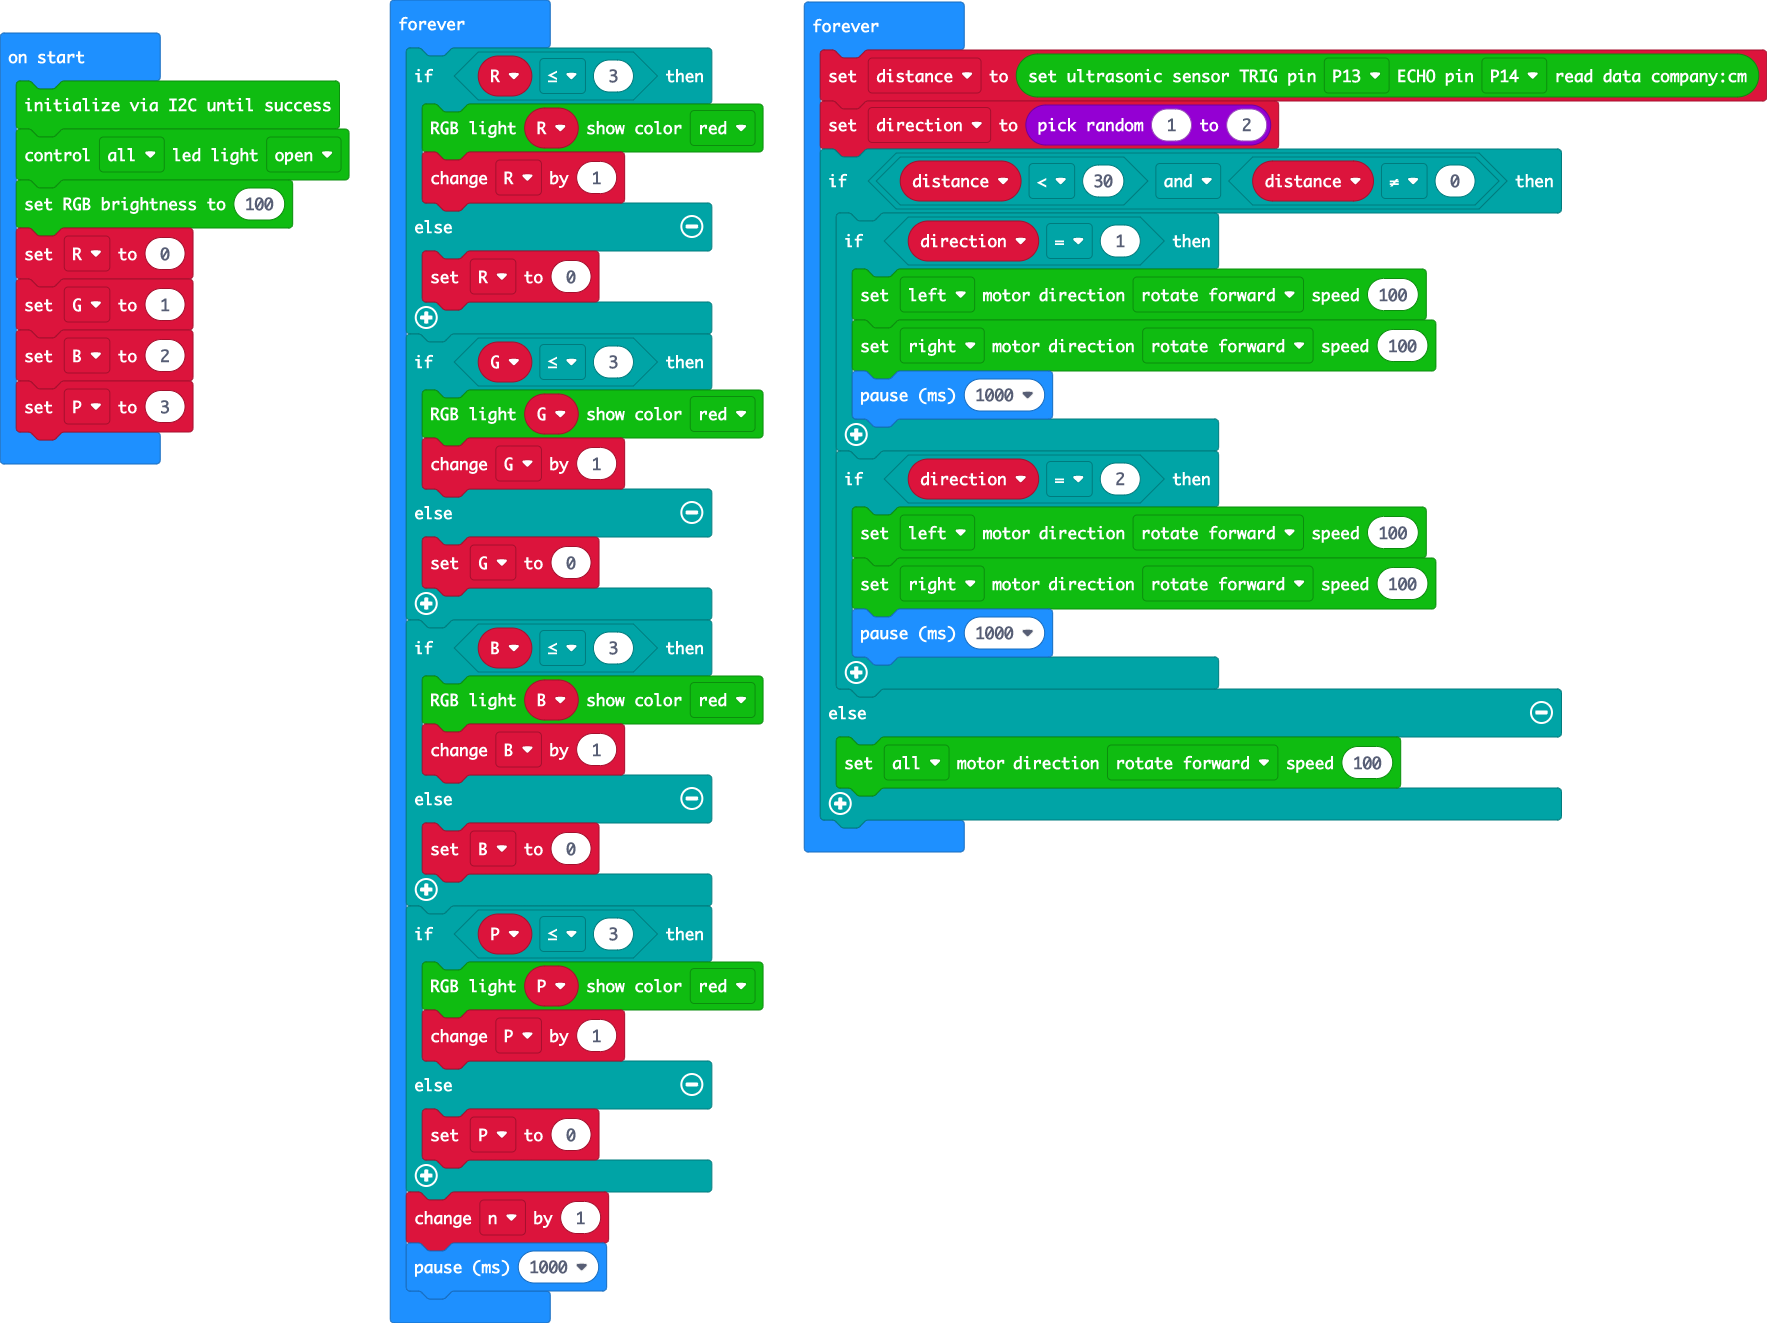
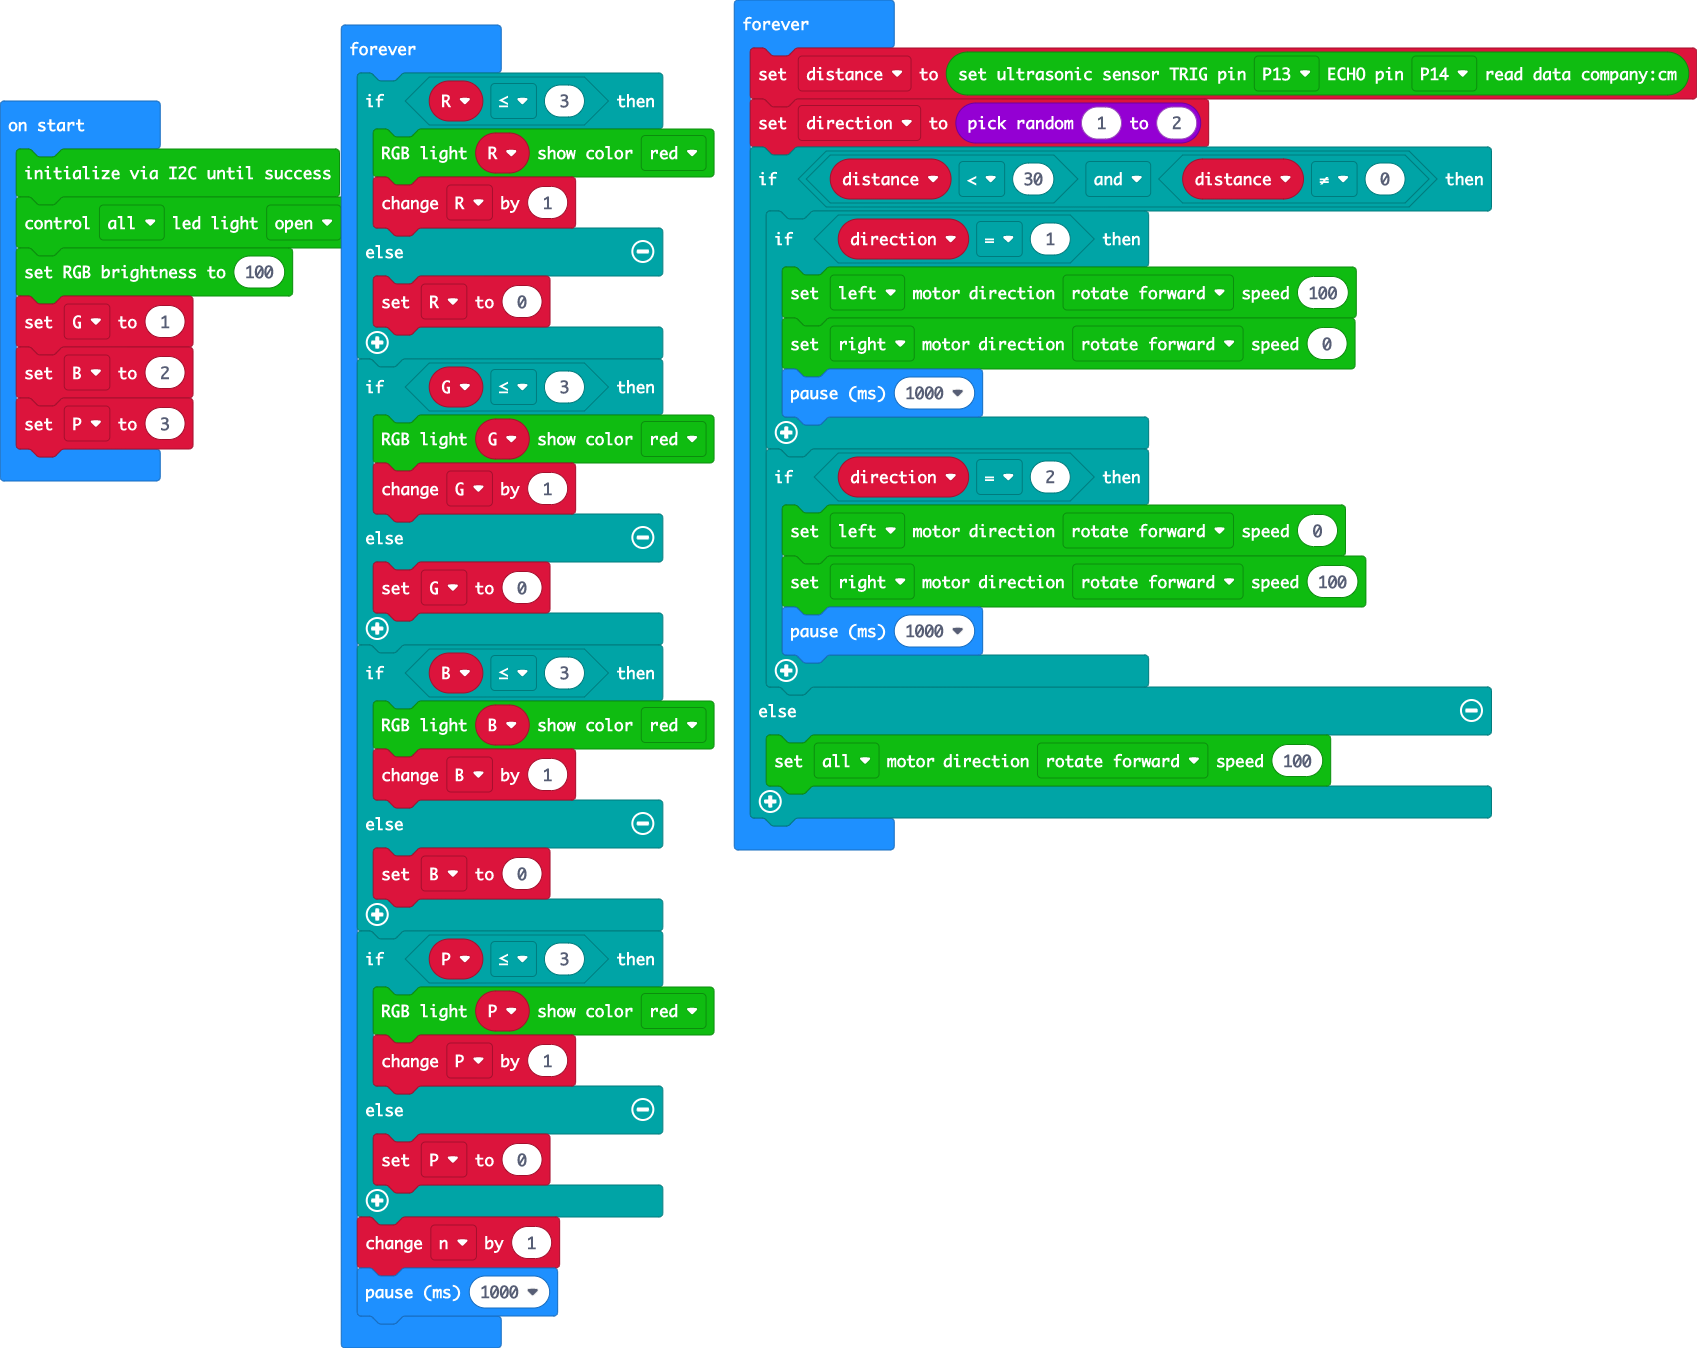
Sensor and motors working.

Changed region(s): [[0.0, 0.0, 1.0, 1.0], [0.3748, 0.8677, 0.406, 0.8987]]

diff --git a/main.ts b/main.ts
@@ -1,13 +1,31 @@
+let n = 0
+let R = 0
 let direction = 0
 let distance = 0
-let n = 0
 DFRobotMaqueenPlusV2.I2CInit()
 DFRobotMaqueenPlusV2.controlLED(MyEnumLed.eAllLed, MyEnumSwitch.eOpen)
 DFRobotMaqueenPlusV2.setBrightness(100)
-let R = 0
 let G = 1
 let B = 2
 let P = 3
+basic.forever(function () {
+    distance = DFRobotMaqueenPlusV2.readUltrasonic(DigitalPin.P13, DigitalPin.P14)
+    direction = randint(1, 2)
+    if (distance < 30 && distance != 0) {
+        if (direction == 1) {
+            DFRobotMaqueenPlusV2.controlMotor(MyEnumMotor.eLeftMotor, MyEnumDir.eForward, 100)
+            DFRobotMaqueenPlusV2.controlMotor(MyEnumMotor.eRightMotor, MyEnumDir.eForward, 0)
+            basic.pause(1000)
+        }
+        if (direction == 2) {
+            DFRobotMaqueenPlusV2.controlMotor(MyEnumMotor.eLeftMotor, MyEnumDir.eForward, 0)
+            DFRobotMaqueenPlusV2.controlMotor(MyEnumMotor.eRightMotor, MyEnumDir.eForward, 100)
+            basic.pause(1000)
+        }
+    } else {
+        DFRobotMaqueenPlusV2.controlMotor(MyEnumMotor.eAllMotor, MyEnumDir.eForward, 100)
+    }
+})
 basic.forever(function () {
     if (R <= 3) {
         DFRobotMaqueenPlusV2.setIndexColor(R, NeoPixelColors.Red)
@@ -35,22 +53,4 @@ basic.forever(function () {
     }
     n += 1
     basic.pause(1000)
-})
-basic.forever(function () {
-    distance = DFRobotMaqueenPlusV2.readUltrasonic(DigitalPin.P13, DigitalPin.P14)
-    direction = randint(1, 2)
-    if (distance < 30 && distance != 0) {
-        if (direction == 1) {
-            DFRobotMaqueenPlusV2.controlMotor(MyEnumMotor.eLeftMotor, MyEnumDir.eForward, 100)
-            DFRobotMaqueenPlusV2.controlMotor(MyEnumMotor.eRightMotor, MyEnumDir.eForward, 100)
-            basic.pause(1000)
-        }
-        if (direction == 2) {
-            DFRobotMaqueenPlusV2.controlMotor(MyEnumMotor.eLeftMotor, MyEnumDir.eForward, 100)
-            DFRobotMaqueenPlusV2.controlMotor(MyEnumMotor.eRightMotor, MyEnumDir.eForward, 100)
-            basic.pause(1000)
-        }
-    } else {
-        DFRobotMaqueenPlusV2.controlMotor(MyEnumMotor.eAllMotor, MyEnumDir.eForward, 100)
-    }
 })
